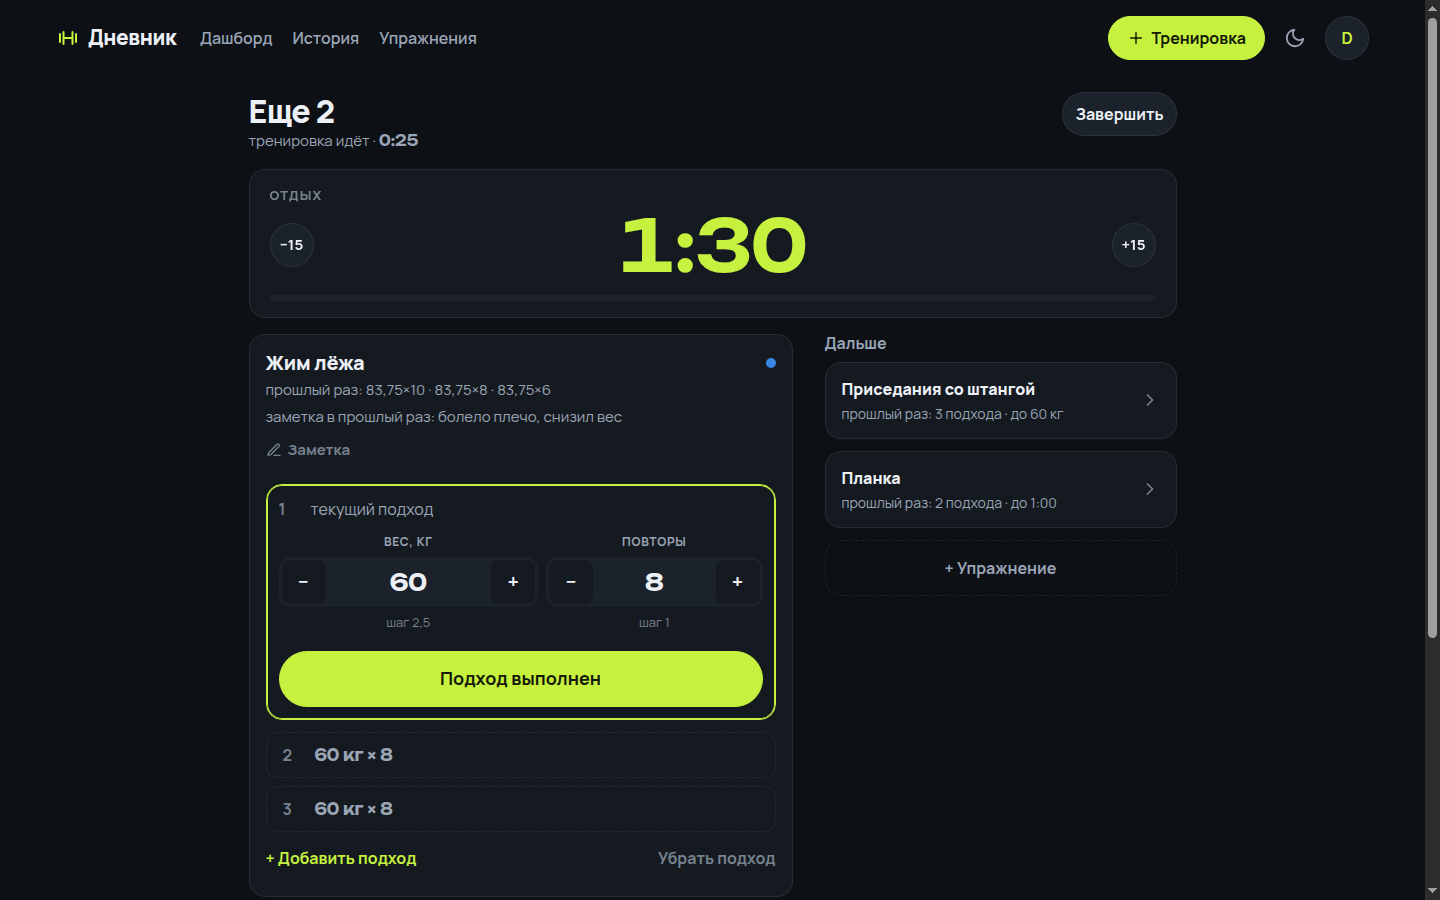
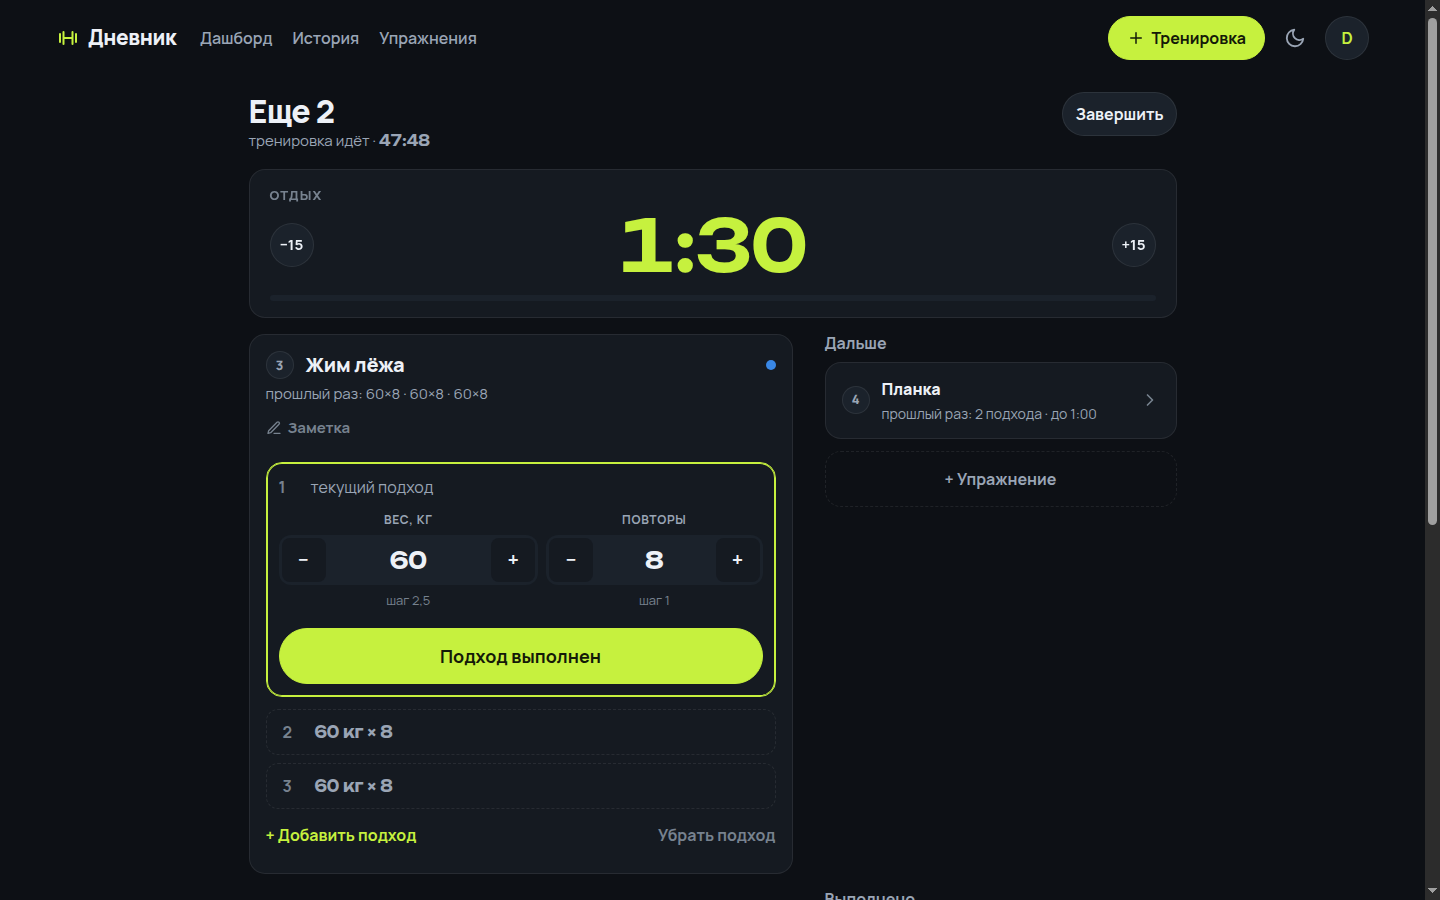
анонс порядка упражнений и правило в CLAUDE.md
Новость «Что нового» одноразовой миграцией, как принято в проекте: номер по
факту, а не по плану; в живом режиме нумерация сквозная; у старых тренировок
номера по порядку добавления, потому что времени выполнения в тех записях нет.

В CLAUDE.md зафиксировано поле done_at и правило порядка: сортировка по
exercise_order_key, метку пишут только SetDoneView и SetUndoView, номер кладётся
в group["position"], а forloop.counter в шаблоне не годится — живой экран
разрезает список на три раздела.

Эталонные скриншоты итога, живого режима и справочника перегенерированы: иначе
следующая правка «починила» бы итог обратно в две колонки по старому снимку.

diff --git a/workouts/migrations/0018_announce_exercise_order.py b/workouts/migrations/0018_announce_exercise_order.py
@@ -1,0 +1,46 @@
+# Новость «Что нового» про порядок упражнений и номера.
+#
+# Анонс едет вместе с фичей одноразовой миграцией — см. 0008_announce_planned_workouts.
+
+from datetime import date, datetime, time
+
+from django.db import migrations
+from django.utils import timezone
+
+TITLE = "Видно, в каком порядке делали упражнения"
+BODY = (
+    "У упражнений в тренировке появился номер — теперь понятно, что было первым, "
+    "а что четвёртым. Причём номер по факту, а не по плану: если вы подготовили "
+    "тренировку заранее, а в зале начали с другого упражнения, запись это "
+    "запомнит. В живом режиме нумерация сквозная — сразу видно, сколько уже "
+    "сделано и что осталось. У тренировок, записанных раньше, номера идут в том "
+    "порядке, в котором упражнения добавлялись: времени выполнения в старых "
+    "записях просто нет."
+)
+PUBLISHED_ON = date(2026, 9, 1)
+
+
+def add_entry(apps, schema_editor):
+    entry_model = apps.get_model("workouts", "ChangelogEntry")
+    published_at = timezone.make_aware(datetime.combine(PUBLISHED_ON, time(12, 0)))
+    entry_model.objects.get_or_create(
+        title=TITLE,
+        defaults={
+            "kind": "feature",
+            "body": BODY,
+            "published_at": published_at,
+            "is_published": True,
+        },
+    )
+
+
+def remove_entry(apps, schema_editor):
+    apps.get_model("workouts", "ChangelogEntry").objects.filter(title=TITLE).delete()
+
+
+class Migration(migrations.Migration):
+    dependencies = [
+        ("workouts", "0017_set_done_at"),
+    ]
+
+    operations = [migrations.RunPython(add_entry, remove_entry)]

diff --git a/CLAUDE.md b/CLAUDE.md
@@ -32,7 +32,7 @@
    - `Exercise`: name, muscle_group (необязательное; у своих упражнений задаётся при создании и правится на странице упражнения — чипы уже используемых групп плюс своё значение, написание приводится к уже принятому, чтобы не появились «Грудь» и «грудь»; список групп строится из данных, без choices), owner (FK User, NULL = глобальное), measurement ∈ {weight_reps, reps, time, time_weight} — в чём считается подход; по умолчанию «вес × повторы», у планки — время
    - `Workout`: user, sport, started_at (nullable — NULL = черновик: тренировка подготовлена заранее, время не идёт), duration_min (NULL = тренировка не записана: либо идёт, либо ещё не начата), note, rest_seconds (nullable — отдых между подходами для ЭТОЙ тренировки; NULL = значение по умолчанию из профиля `User.rest_seconds_default` (90 сек); изменение длительности отдыха на экране живого режима записывается сюда и действует до конца тренировки), current_exercise (nullable FK Exercise — выбранное вручную текущее упражнение живого режима); для силовых длительность считается живым режимом, для кардио вводится руками
    - **Три состояния тренировки выводятся из этих двух колонок, отдельного поля-статуса нет**: черновик (`started_at IS NULL`) → идёт (`started_at NOT NULL`, `duration_min IS NULL`) → записана (`duration_min NOT NULL`). Черновиков может быть сколько угодно (план на пн/ср/пт), идущая — не больше одной на пользователя: частичный `UniqueConstraint unique_live_workout_per_user`. Комбинация «записана, но не начиналась» запрещена `CheckConstraint finished_workout_is_started`, поэтому `.finished()` гарантирует непустой `started_at` и `localtime(started_at)` в истории и агрегатах не может подставить `now()` вместо настоящей даты. `Meta.ordering` использует `nulls_last`: иначе Postgres поставил бы черновики в начало любой выборки без явной сортировки. Фильтровать только методами `Workout.objects.finished() / live() / planned() / unfinished()`
-   - `StrengthSet`: workout, exercise, set_number, weight_kg (Decimal), reps, duration_sec (секунды удержания), measurement (снимок единицы упражнения на момент записи — смена единицы не переписывает историю; неприменимые поля обязаны быть нулём, это держит CheckConstraint `set_fields_match_measurement`, и благодаря ему тоннаж `Sum(вес × повторы)` верен без фильтров), done (False = плановый подход живого режима; при завершении тренировки невыполненные удаляются — в завершённой тренировке остаются только выполненные)
+   - `StrengthSet`: workout, exercise, set_number, weight_kg (Decimal), reps, duration_sec (секунды удержания), measurement (снимок единицы упражнения на момент записи — смена единицы не переписывает историю; неприменимые поля обязаны быть нулём, это держит CheckConstraint `set_fields_match_measurement`, и благодаря ему тоннаж `Sum(вес × повторы)` верен без фильтров), done (False = плановый подход живого режима; при завершении тренировки невыполненные удаляются — в завершённой тренировке остаются только выполненные), done_at (когда нажали «Подход выполнен»; NULL = либо подход плановый, либо он записан до появления поля — бэкфилл невозможен, времени выполнения в старых данных нет). **Порядок упражнений в тренировке считается по `done_at`, а не по порядку добавления**: `models.exercise_order_key` сортирует группы по паре «самая ранняя метка упражнения или бесконечность, затем `min(id)` подходов», поэтому в итоге получается фактический порядок, в очереди живого режима — план, а тренировка без меток ведёт себя как раньше. Метку пишут ровно два места — `SetDoneView` ставит, `SetUndoView` очищает (у невыполненного подхода её быть не может, это держит CheckConstraint `set_done_at_only_when_done`); из-за этого удаление невыполненных подходов при завершении больше не может сдвинуть порядок. Номер упражнения — позиция в этом отсортированном списке, кладётся в `group["position"]` в `services.exercise_groups` и в `stats.exercise_positions`: `forloop.counter` в шаблоне не годится, живой экран разрезает список на «сейчас / дальше / выполнено» и счётчик дал бы в каждом разделе свою единицу
    - `ExerciseNote`: workout, exercise, text (до 500 символов) — заметка к упражнению внутри тренировки («болело плечо», «узкий хват»); одна на пару (UniqueConstraint), «заметки нет» = строки нет (пустой текст удаляет запись); `exercise` удаляется CASCADE, а не PROTECT как у подхода — иначе осиротевшая заметка сделала бы личное упражнение неудаляемым без способа её убрать; пишется в живом режиме и в черновике, в записанной тренировке только читается; в следующей тренировке показывается подсказкой «заметка в прошлый раз» из той же тренировки, что дала подстановку весов
    - `ExerciseSettings`: user, exercise, weight_step — **настройки упражнения у конкретного пользователя**, дом для будущих настроек: новые добавляются полями сюда, а не в `Exercise`. Почему отдельная модель: глобальные упражнения правит только админ, а шаг веса у приседа со штангой каждый настраивает под свой зал (у приглашённых друзей — свой). Строки нет = действуют умолчания (`DEFAULT_WEIGHT_STEP` 2,5 кг), она появляется при первом изменении; `exercise` удаляется CASCADE, как у заметки. Шаг подмешивается к подходам и упражнениям аннотацией `with_weight_step` — отдельный запрос на упражнение сделал бы живой экран зависимым от их числа
    - `CardioDetails`: OneToOne(Workout), distance_km (Decimal), avg_heart_rate (nullable)
